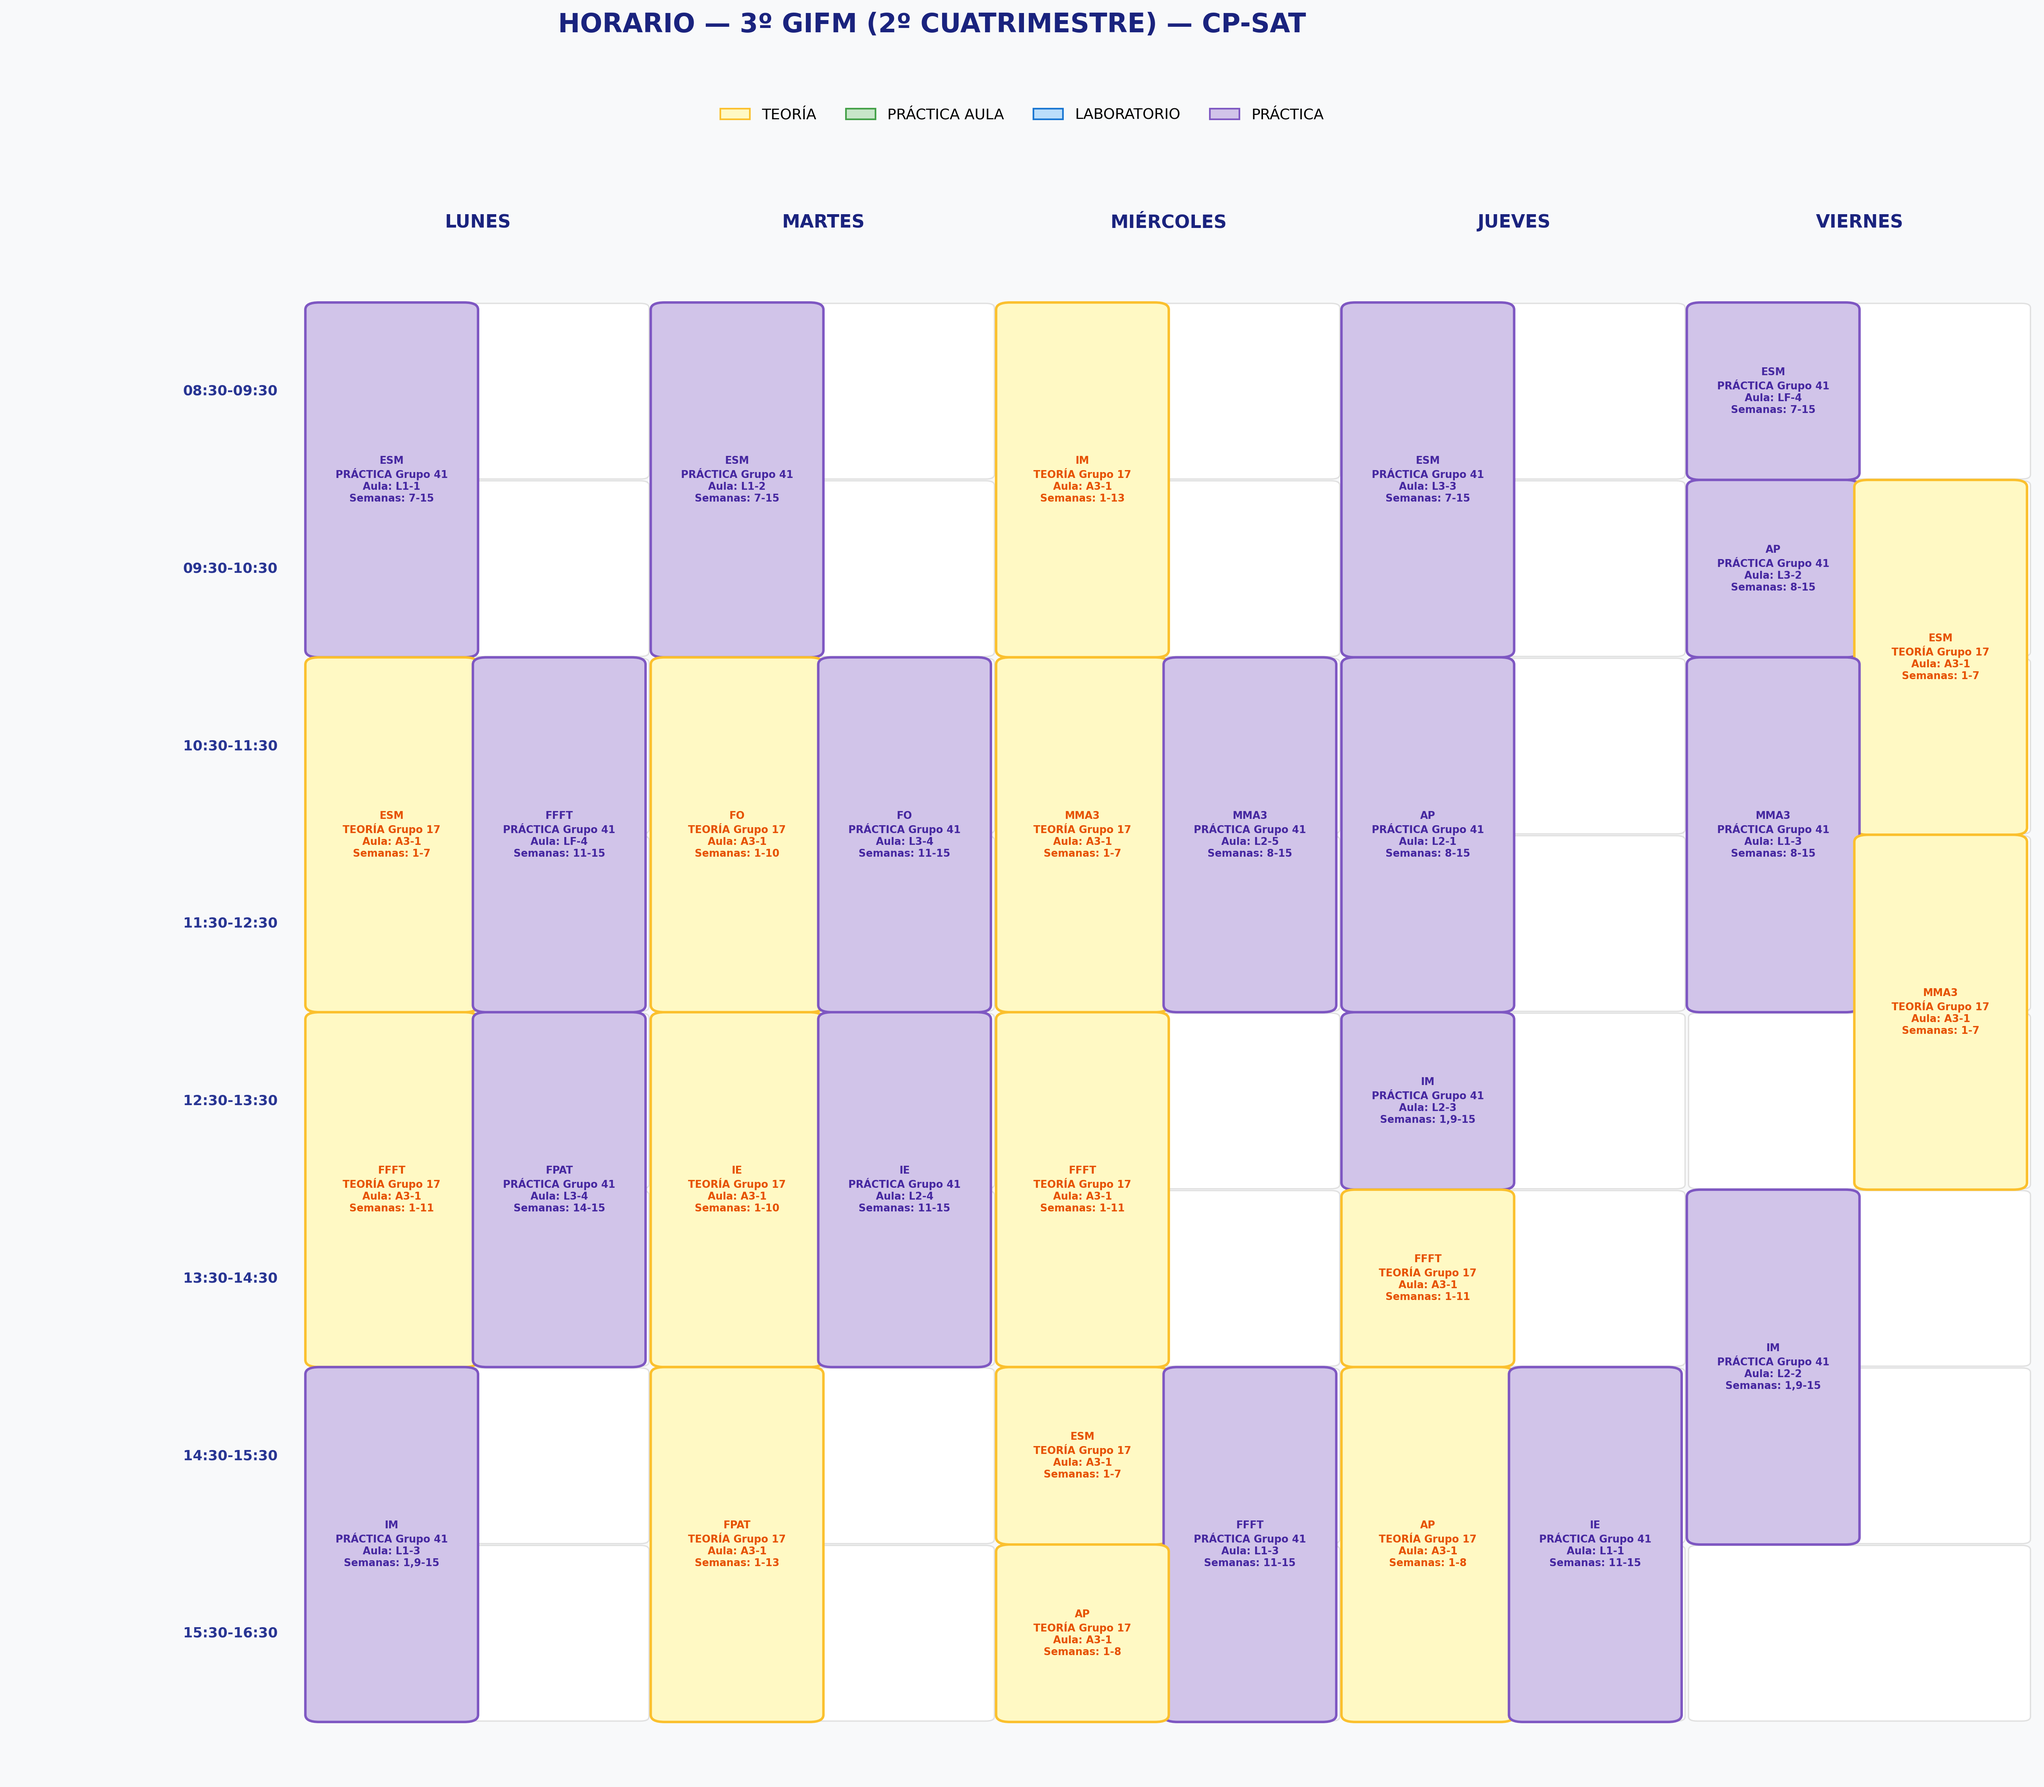
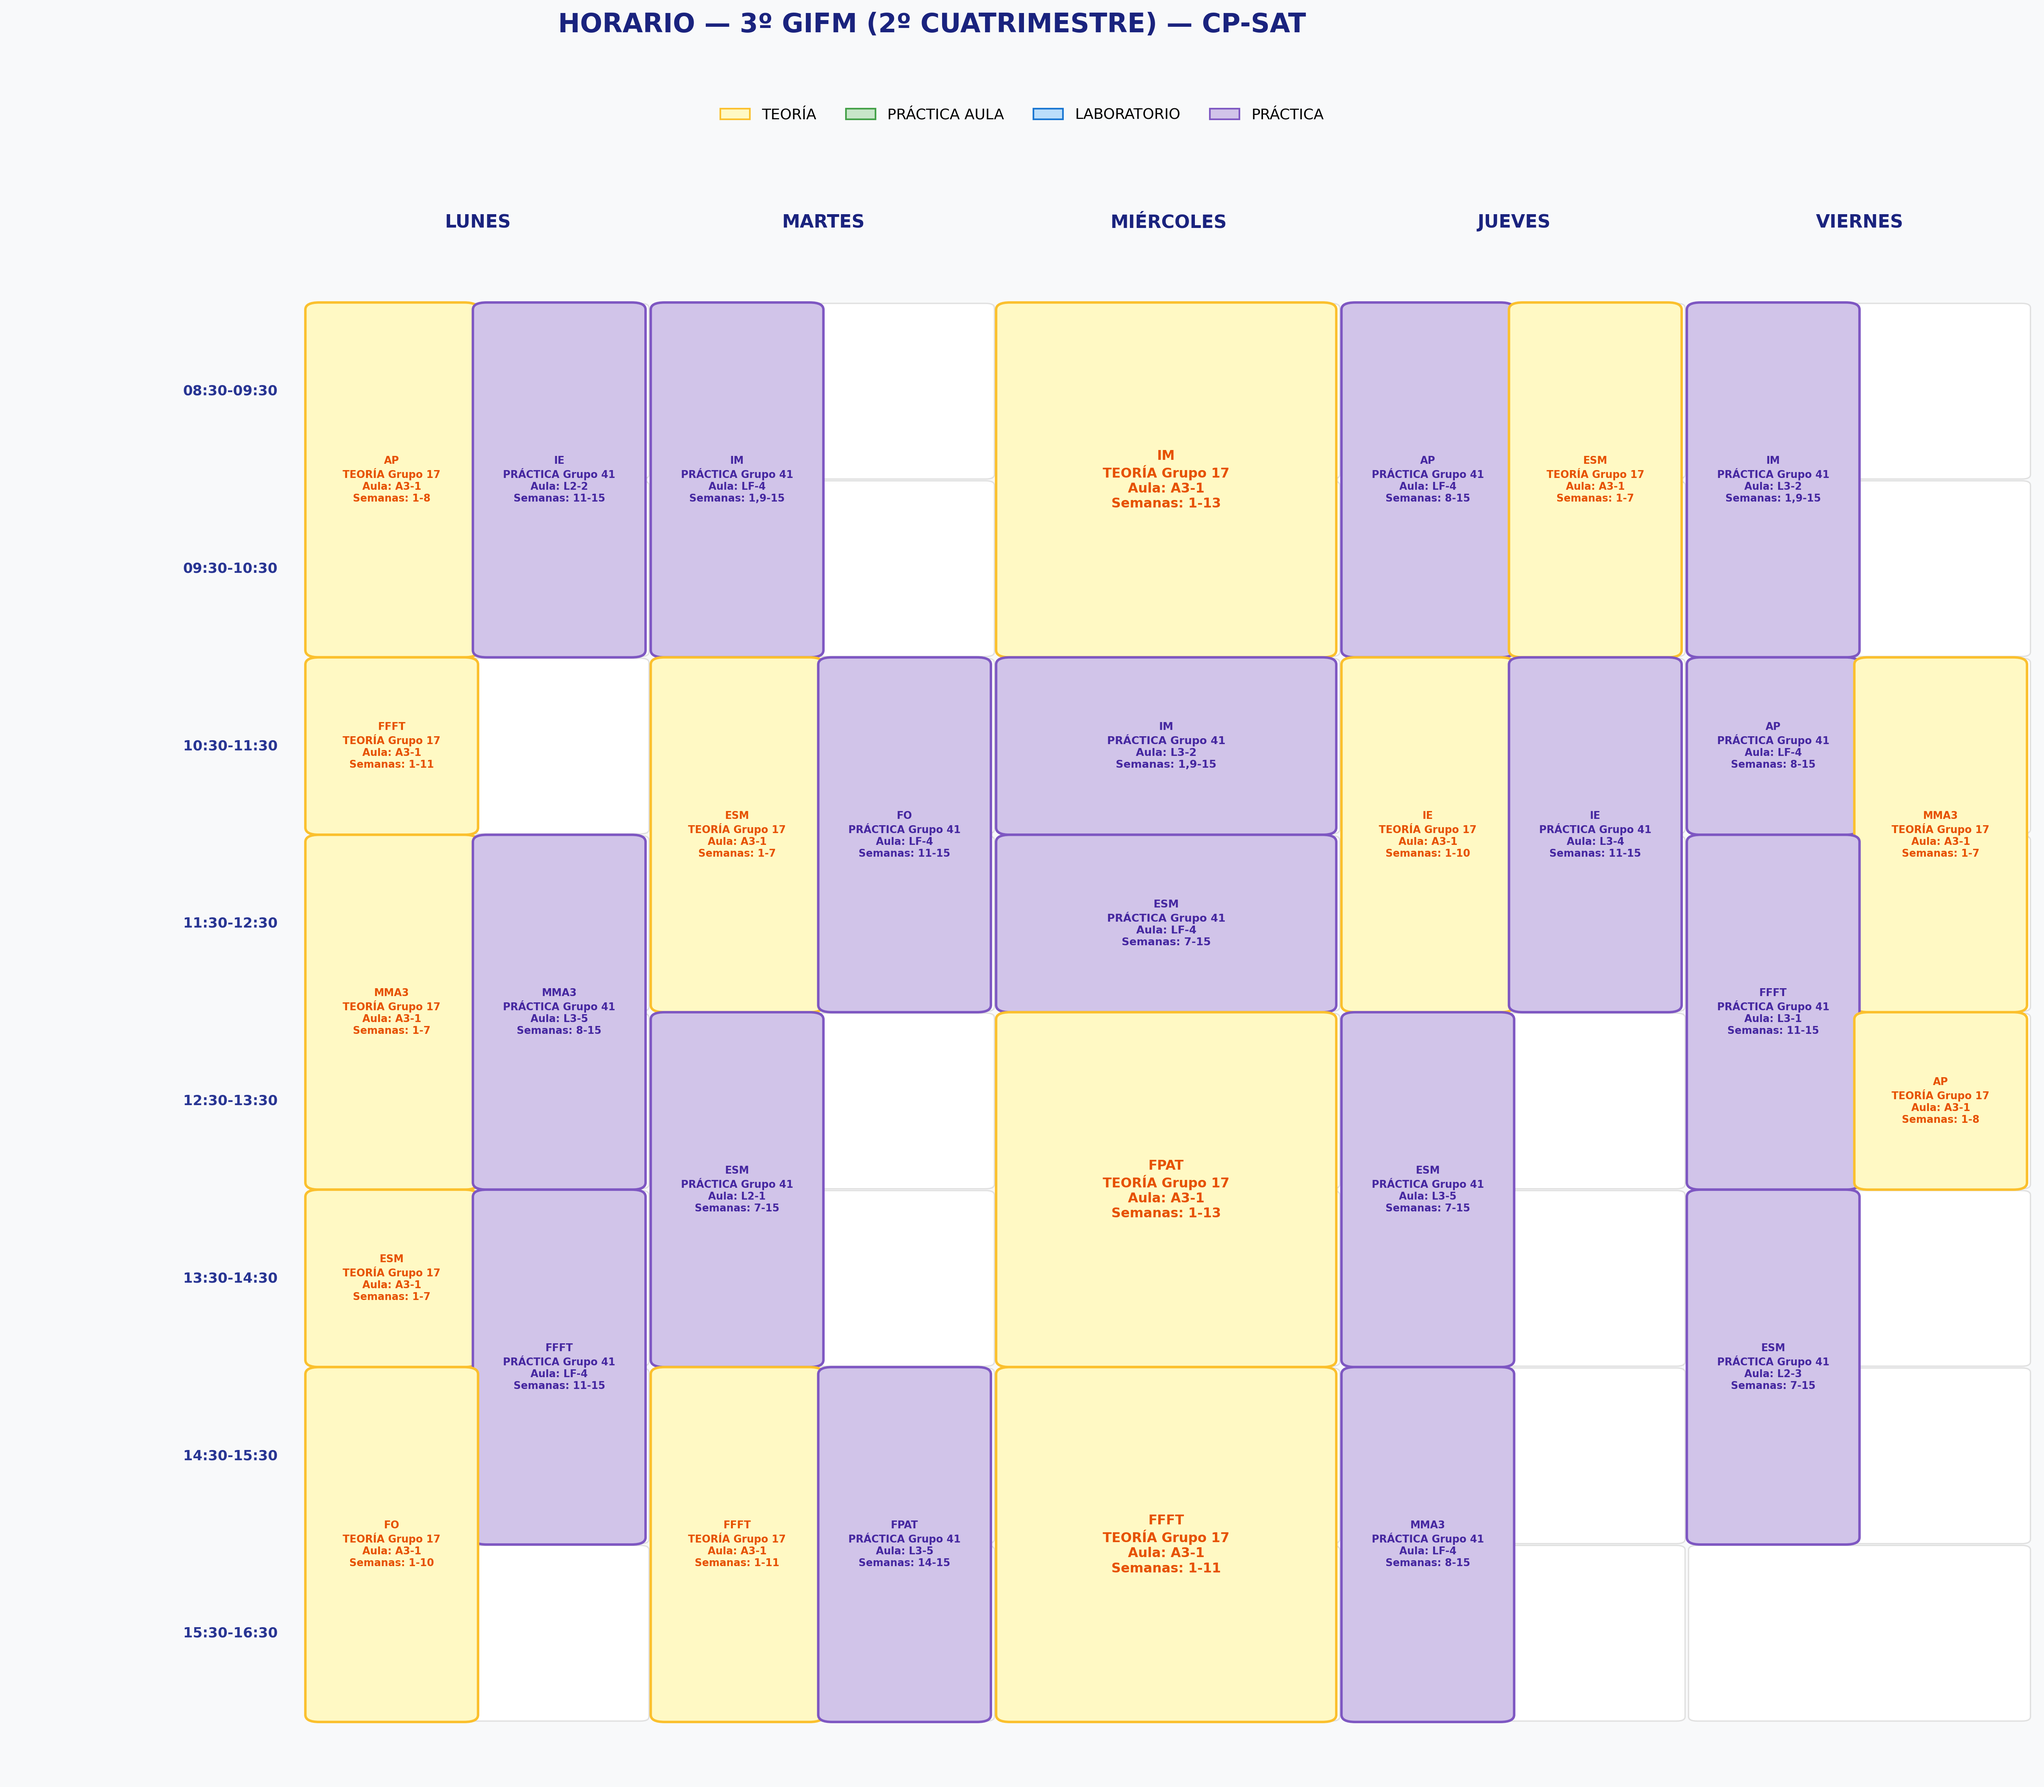
Añadir imagen del horario generado

diff --git a/src/modelo_base.py b/src/modelo_base.py
@@ -22,7 +22,8 @@ if __package__:
     from .visualizador import exportar_horario_png
 
     from .metaheuristica.evaluacion import (
-        comprobar_restricciones
+        comprobar_restricciones,
+        calcular_coste
     )
 
     from .metaheuristica.recocido_simulado import (
@@ -41,7 +42,8 @@ else:
     from visualizador import exportar_horario_png
 
     from metaheuristica.evaluacion import (
-        comprobar_restricciones
+        comprobar_restricciones,
+        calcular_coste
     )
 
     from metaheuristica.recocido_simulado import (
@@ -84,6 +86,9 @@ AULA_PREFERIDA = "A3-1"
 
 SEMILLA_RECOCIDO = 42
 MAX_REINICIOS_INICIAL = 100
+
+# Registro global de resultados de los experimentos.
+REGISTRO_COMPARACION = []
 
 
 # ---------------------------------------------------------
@@ -947,7 +952,10 @@ def generar_horario(
     horas_cp = HORAS_POR_DIA_NORMAL
     df_resultado_cp = None
     tiempo_cp = None
+    tiempo_cp_total = 0.0
     estado_cp_nombre = "No resuelto"
+    solver = None
+    estado = None
 
     try:
 
@@ -964,6 +972,8 @@ def generar_horario(
             end_vars,
             aula_asignada
         ) = resultado_modelo
+
+        tiempo_cp_total += solver.WallTime()
 
         # Ampliación excepcional para 3º GIFM - 2º cuatri.
         if (
@@ -994,8 +1004,10 @@ def generar_horario(
                 aula_asignada
             ) = resultado_modelo
 
+            tiempo_cp_total += solver.WallTime()
+
         estado_cp_nombre = solver.StatusName(estado)
-        tiempo_cp = solver.WallTime()
+        tiempo_cp = tiempo_cp_total
 
         print("\nEstado CP-SAT:", estado_cp_nombre)
         print("Tiempo:", round(tiempo_cp, 2), "segundos")
@@ -1033,6 +1045,55 @@ def generar_horario(
 
         print("Error durante CP-SAT:")
         print(f"{type(error).__name__}: {error}")
+
+    # -----------------------------------------------------
+    # REGISTRAR ESTADÍSTICAS DE CP-SAT
+    # -----------------------------------------------------
+
+    coste_cp = None
+    valido_cp = False
+
+    if df_resultado_cp is not None:
+
+        valido_cp, errores_cp = comprobar_restricciones(
+            df_resultado_cp,
+            horas_cp
+        )
+
+        if valido_cp:
+
+            # IMPORTANTE:
+            # Se utiliza la misma función de evaluación que
+            # emplea el recocido simulado.
+            coste_cp = float(
+                calcular_coste(
+                    df_resultado_cp,
+                    horas_cp
+                )
+            )
+
+        else:
+
+            print(
+                "\nEl horario CP-SAT no supera la "
+                "comprobación de restricciones:"
+            )
+
+            for error_cp in errores_cp:
+                print("-", error_cp)
+
+    REGISTRO_COMPARACION.append({
+        "Curso": curso,
+        "Cuatrimestre": cuatrimestre,
+        "Algoritmo": "CP-SAT",
+        "Estado": estado_cp_nombre,
+        "Coste_inicial": None,
+        "Coste_final": coste_cp,
+        "Tiempo_segundos": tiempo_cp_total,
+        "Iteraciones": None,
+        "Jornada_horas": horas_cp,
+        "Horario_valido": valido_cp
+    })
 
     # -----------------------------------------------------
     # PARTE B: RECOCIDO SIMULADO INDEPENDIENTE
@@ -1151,6 +1212,24 @@ def generar_horario(
                     resultado_sa["horario"],
                     horas_sa
                 )
+
+                # Registrar estadísticas del recocido.
+                REGISTRO_COMPARACION.append({
+                    "Curso": curso,
+                    "Cuatrimestre": cuatrimestre,
+                    "Algoritmo": "Recocido simulado",
+                    "Estado": (
+                        "Válido"
+                        if resultado_sa["valido"]
+                        else "No válido"
+                    ),
+                    "Coste_inicial": resultado_sa["coste_inicial"],
+                    "Coste_final": resultado_sa["mejor_coste"],
+                    "Tiempo_segundos": resultado_sa["tiempo"],
+                    "Iteraciones": resultado_sa["iteraciones"],
+                    "Jornada_horas": horas_sa,
+                    "Horario_valido": resultado_sa["valido"]
+                })
 
                 guardar_horario(
                     df_resultado_sa,
@@ -1275,6 +1354,10 @@ def generar_todos_los_horarios():
 
     resultados = {}
 
+    # Limpiar el registro para no duplicar datos
+    # si se vuelve a ejecutar la función en la misma sesión.
+    REGISTRO_COMPARACION.clear()
+
     total = 8
     contador = 0
 
@@ -1312,7 +1395,10 @@ def generar_todos_los_horarios():
                     (curso, cuatrimestre)
                 ] = None
 
-    # Resumen final.
+    # -----------------------------------------------------
+    # RESUMEN FINAL
+    # -----------------------------------------------------
+
     print("\n" + "=" * 65)
     print("RESUMEN FINAL DE GENERACIÓN")
     print("=" * 65)
@@ -1342,6 +1428,61 @@ def generar_todos_los_horarios():
 
     print("\nHorarios generados:", generados)
     print("Horarios no generados:", fallidos)
+
+    # -----------------------------------------------------
+    # GUARDAR COMPARACIÓN GLOBAL
+    # -----------------------------------------------------
+
+    if REGISTRO_COMPARACION:
+
+        df_comparacion = pd.DataFrame(
+            REGISTRO_COMPARACION
+        )
+
+        # Ordenar por curso, cuatrimestre y método.
+        orden_algoritmos = {
+            "CP-SAT": 0,
+            "Recocido simulado": 1
+        }
+
+        df_comparacion["_orden"] = (
+            df_comparacion["Algoritmo"]
+            .map(orden_algoritmos)
+        )
+
+        df_comparacion = (
+            df_comparacion
+            .sort_values(
+                by=[
+                    "Curso",
+                    "Cuatrimestre",
+                    "_orden"
+                ]
+            )
+            .drop(columns="_orden")
+            .reset_index(drop=True)
+        )
+
+        ruta_comparacion = (
+            RUTA_RESULTADOS / "comparacion_algoritmos.csv"
+        )
+
+        df_comparacion.to_csv(
+            ruta_comparacion,
+            index=False,
+            encoding="utf-8-sig"
+        )
+
+        print(
+            "\nComparación de algoritmos guardada en:",
+            ruta_comparacion
+        )
+
+        print("\nRESUMEN COMPARATIVO:")
+
+        print(
+            df_comparacion.to_string(index=False)
+        )
 
     print(
         "\nLos resultados se encuentran en:",
